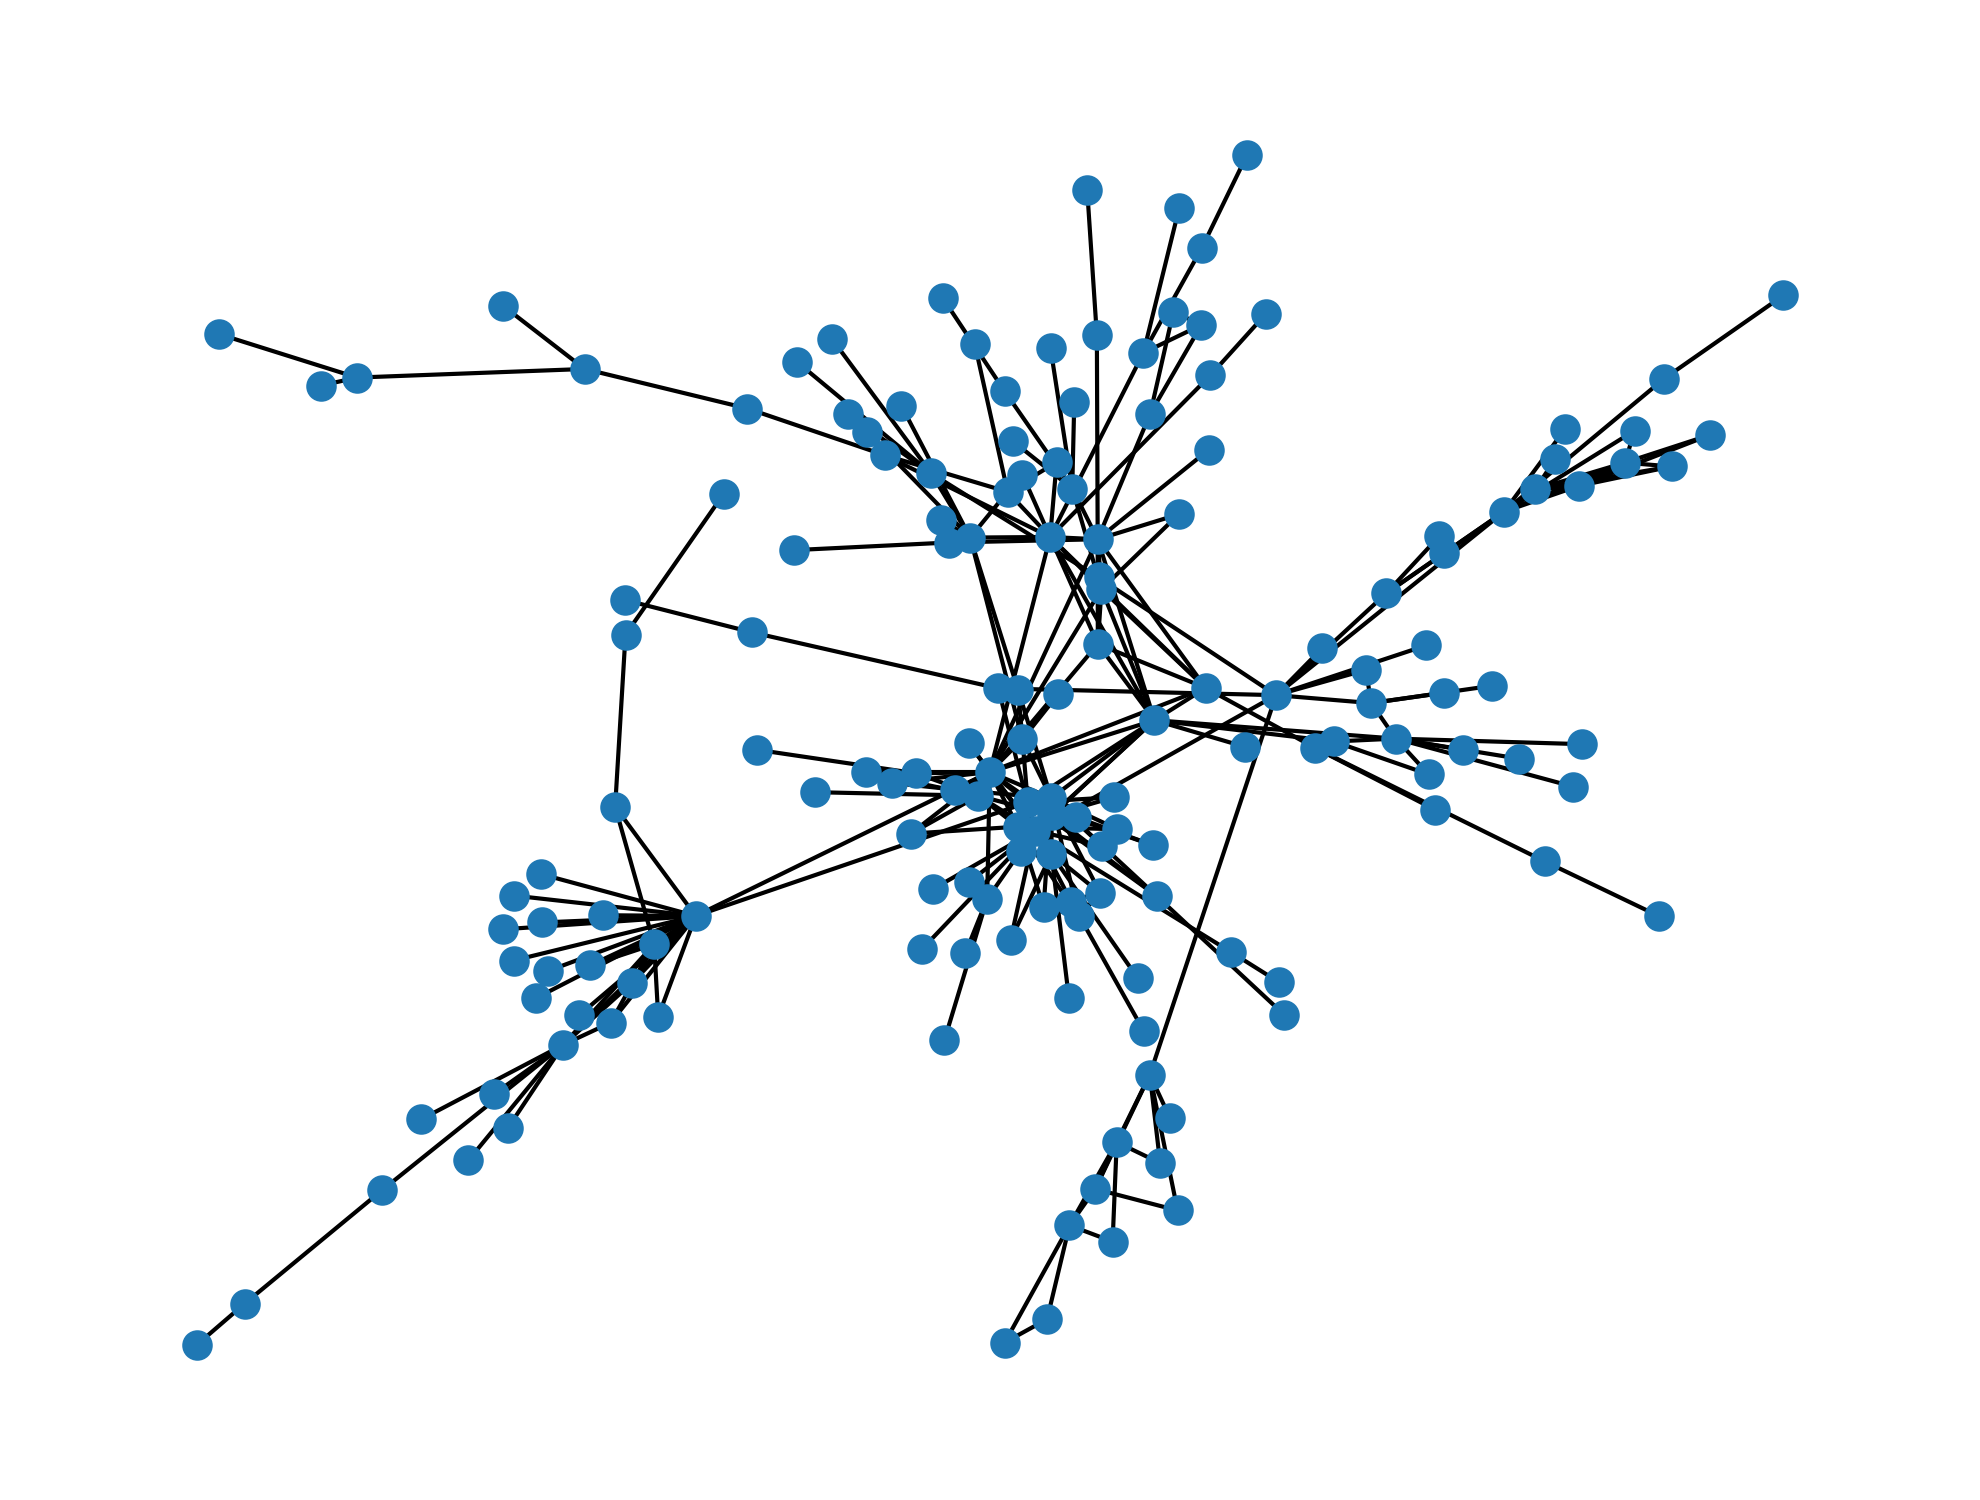
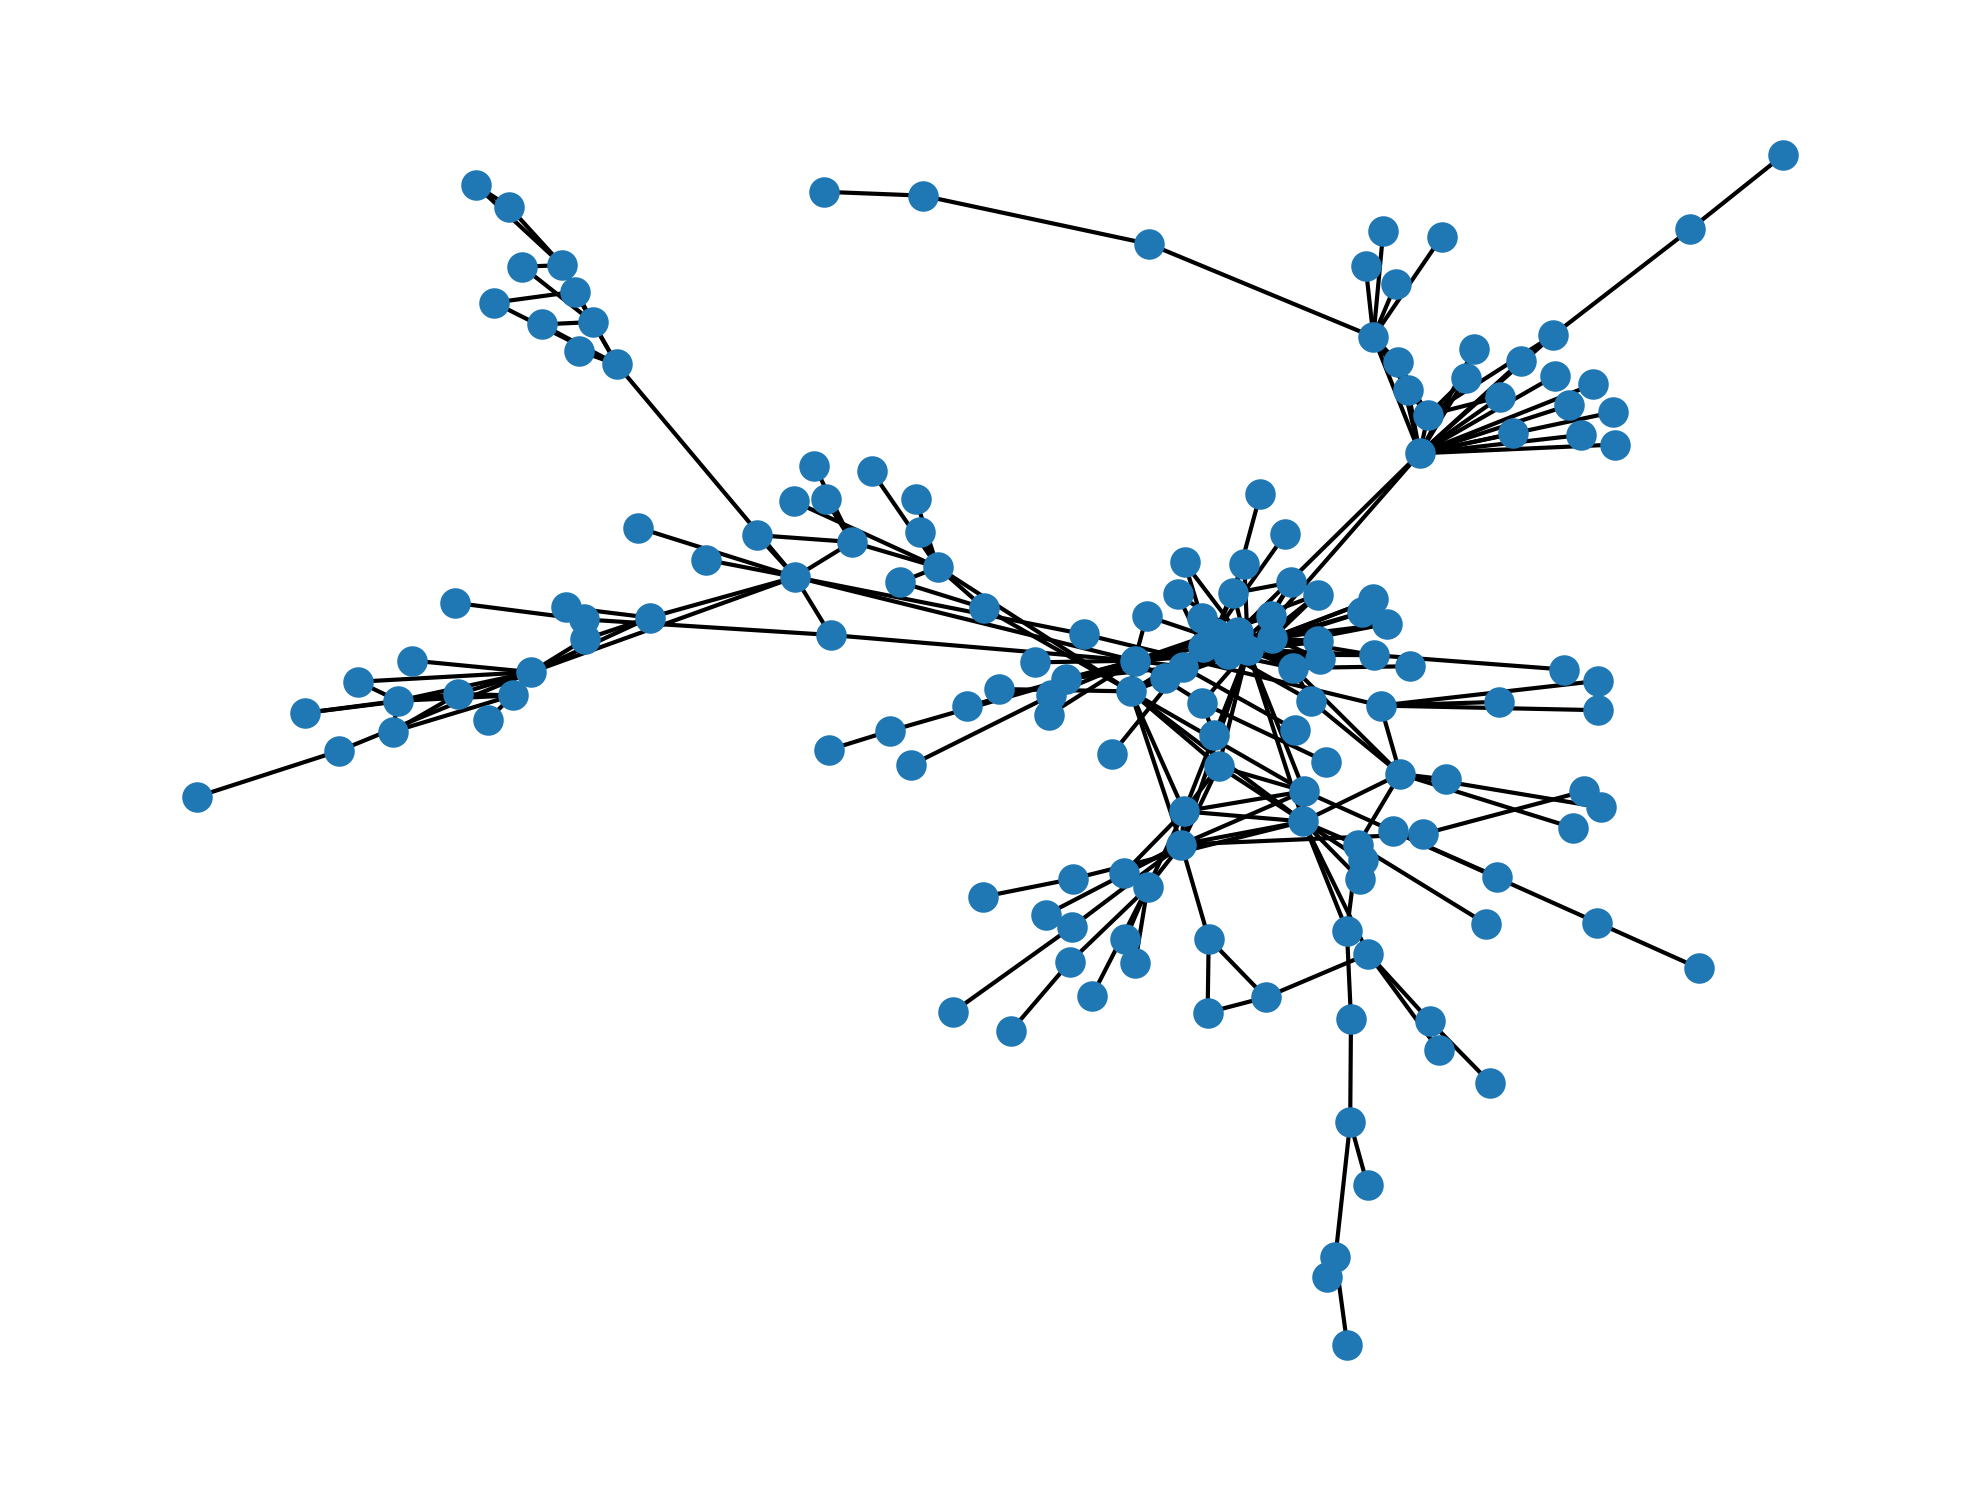
Project refactoring
Moved folders, fixed the lib folder being created in a different directory than the graph

diff --git a/utils/interactive_graph_converter.py b/utils/interactive_graph_converter.py
@@ -1,42 +1,58 @@
+from pathlib import Path
+import os
+import webbrowser
+
 from pyvis.network import Network
 import networkx as nx
 
-def generate_interactive_graph(nx_graph: nx.Graph, output_path: str = "interactive_graph.html"):
-    # Initialize the PyVis network
-    # height/width: Canvas size
-    # bgcolor/font_color: Dark mode theme for better visibility
-    net = Network(height="750px", width="100%", bgcolor="#222222", font_color="white", select_menu=True)
-    
-    # Pre-process nodes for better interactivity
-    # We add 'title' for hover tooltips and 'value' for node sizing
+from utils.project_paths import get_paths
+
+P = get_paths()
+GRAPHS_DIR = Path(P.GRAPHS_DIR)
+
+def generate_interactive_graph(nx_graph: nx.Graph, graph_name: str = "interactive_graph.html"):
+    net = Network(
+        height="750px",
+        width="100%",
+        bgcolor="#222222",
+        font_color="white",
+        select_menu=True,
+        cdn_resources="local",  # make explicit; local => needs lib/
+    )
+
     degrees = dict(nx_graph.degree())
     strengths = dict(nx_graph.degree(weight="weight"))
 
     for node in nx_graph.nodes():
         deg = degrees[node]
         strg = strengths.get(node, 0)
-        
-        # Set attributes PyVis looks for
-        nx_graph.nodes[node]['value'] = deg  # Larger degree = Larger node
-        nx_graph.nodes[node]['title'] = (
+
+        nx_graph.nodes[node]["value"] = deg
+        nx_graph.nodes[node]["title"] = (
             f"<b>Author ID:</b> {node}<br>"
             f"<b>Degree:</b> {deg}<br>"
             f"<b>Strength:</b> {strg:.2f}"
         )
-        nx_graph.nodes[node]['label'] = str(node) # Text shown on the node
+        nx_graph.nodes[node]["label"] = str(node)
 
-    # Pre-process edges to show weight thickness
     for u, v, data in nx_graph.edges(data=True):
-        if 'weight' in data:
-            data['value'] = data['weight'] # Thicker line for higher weight
-            data['title'] = f"Weight: {data['weight']}"
+        if "weight" in data:
+            data["value"] = data["weight"]
+            data["title"] = f"Weight: {data['weight']}"
 
-    # Import the enriched NetworkX graph
     net.from_nx(nx_graph)
-    
-    # Enable physics controls so you can manipulate the layout in real-time
-    net.show_buttons(filter_=['physics'])
-    
-    # Save the file
-    print(f"Generating interactive graph at: {output_path}")
-    net.write_html(output_path)
+    net.show_buttons(filter_=["physics"])
+
+    # Ensure output dir exists
+    GRAPHS_DIR.mkdir(parents=True, exist_ok=True)
+
+    # Force PyVis to create ./lib next to the HTML by changing CWD temporarily
+    old_cwd = os.getcwd()
+    os.chdir(GRAPHS_DIR)
+    try:
+        print(f"Generating interactive graph at: {GRAPHS_DIR / graph_name}")
+        net.write_html(graph_name)  # NOTE: just the filename now
+    finally:
+        os.chdir(old_cwd)
+
+    webbrowser.open(f"file://{GRAPHS_DIR / graph_name}")

diff --git a/Scripts/build_networkx_graph.py b/Scripts/build_networkx_graph.py
@@ -78,13 +78,10 @@ if __name__ == "__main__":
     for node, s in get_top_n_strenghts(Gc, 10):
         print(node, s)
 
-    pos = nx.spring_layout(Gc, seed=SEED)
-    generate_interactive_graph(Gc, "interactive_graph.html")
-    #nx.draw(Gc, pos=pos, with_labels=False, node_size=40)
     nx.draw_spring(Gc, node_size= 40)
 
     # saving image
     plt.savefig(GRAPH_IMG_PATH, dpi=300, bbox_inches="tight")
 
+    generate_interactive_graph(Gc, "interactive_graph.html") # converting to interactive
     plt.show()
-

diff --git a/README.md b/README.md
@@ -22,6 +22,7 @@ Repository structure
   - `build_network.py`
 - `utils/`
   - `project_paths.py`
+  - `interactive_graph_converter.py`
 
 Requirements:
 - Python 3.10+
@@ -29,6 +30,7 @@ Requirements:
   - `pyalex`
   - `networkx`
   - `matplotlib`
+  - `pyvis`
 
 Minimal installation:
 ```bash
@@ -187,7 +189,7 @@ Here is the visual representation of how the data changes step by step:
 
 ---
 
-### Script: `build_network.py`
+### Script: `build_networkx_graph.py`
 
 **Purpose:**
 Loads the weighted pairwise co-authorship edges (`edges.csv`) into a NetworkX undirected graph, extracts the largest connected component for analysis, prints basic graph diagnostics, reports the top-10 authors by degree and weighted degree (“strength”), and visualizes the largest component using a spring layout.
